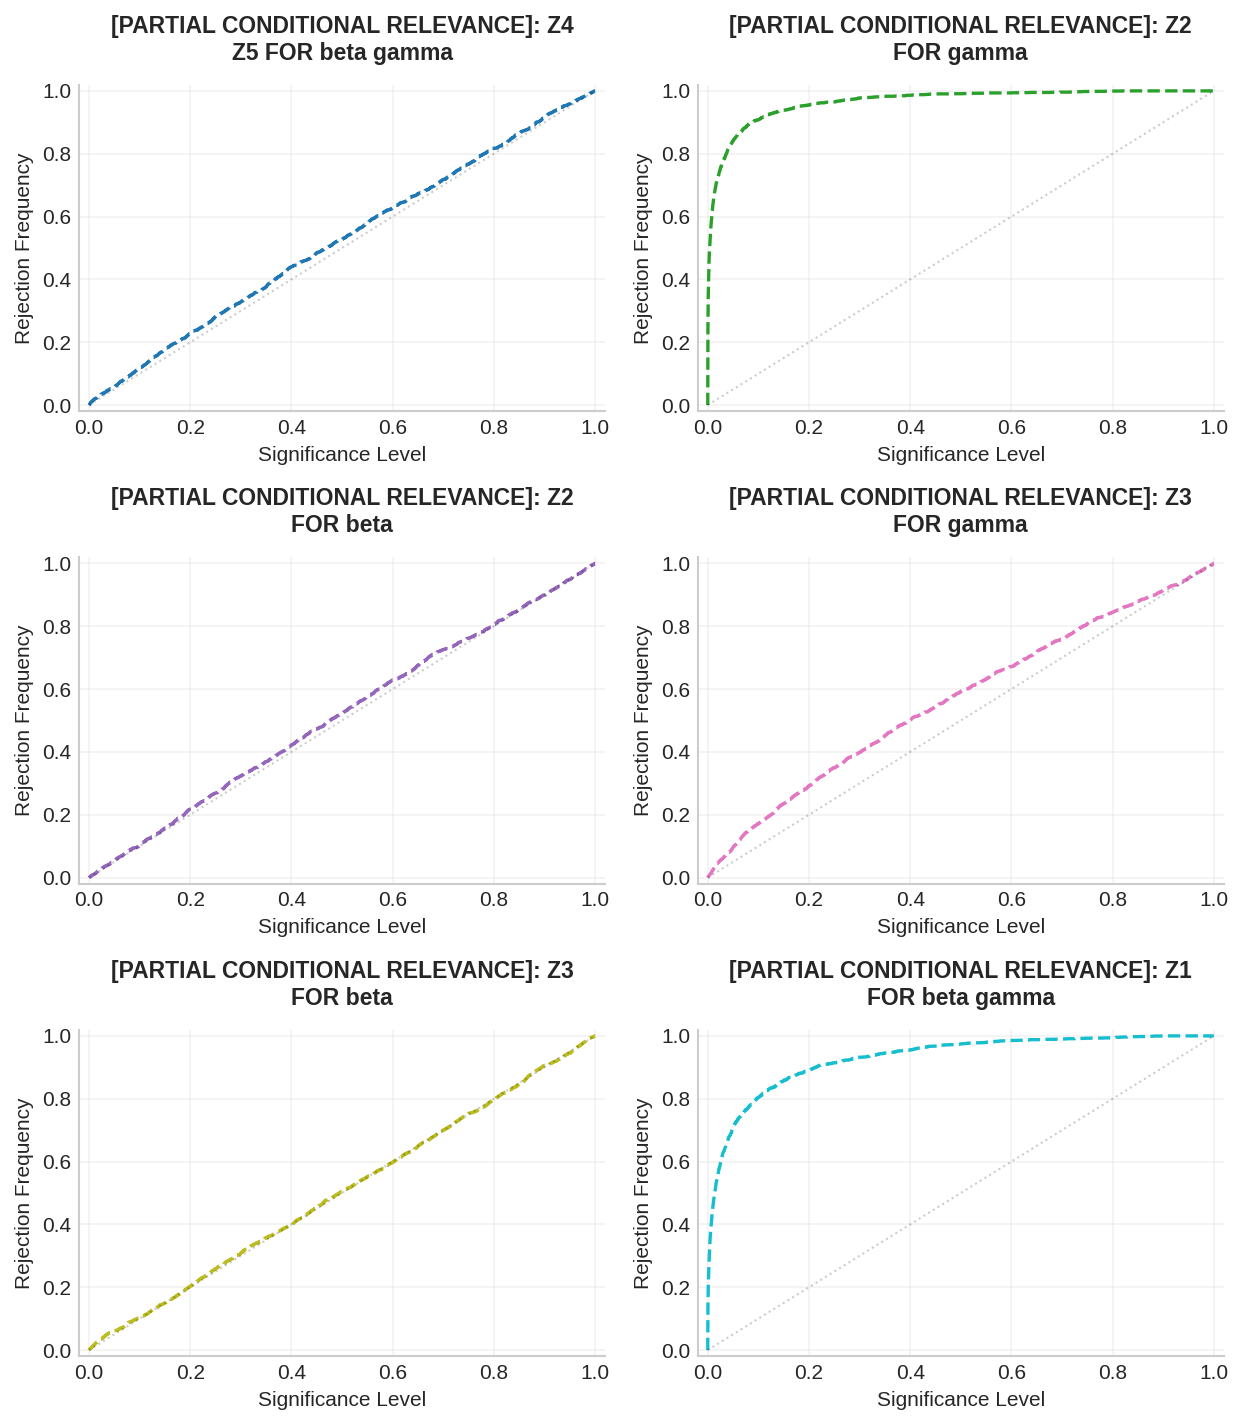
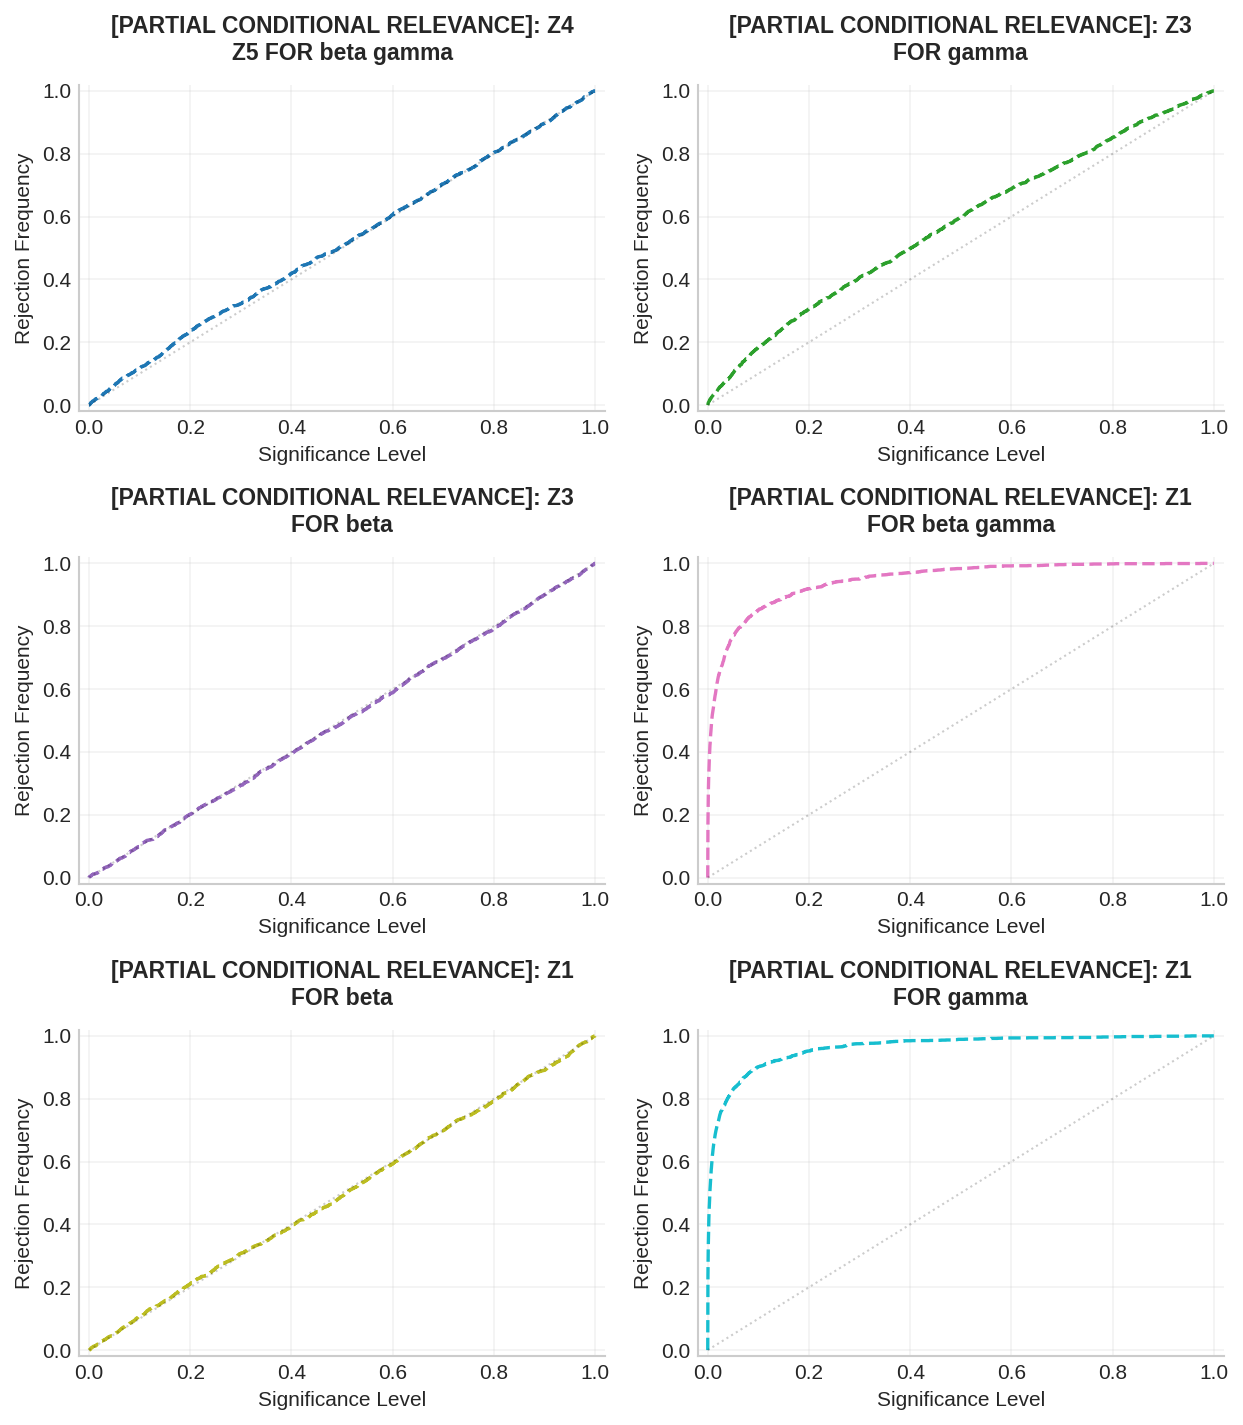
add improved simulation results

diff --git a/partial_monte_carlo.py b/partial_monte_carlo.py
@@ -87,6 +87,8 @@ def generate_Z_for_CR(
     grad_gamma = -beta * C_ratio ** (-gamma) * R * torch.log(C_ratio)
 
     Z1 = 2 * grad_beta + 0.5 * grad_gamma + eps1            # релевантен для beta и gamma
+
+    ####### Для conditional теста Z2 выкидывается!!! #############
     Z2 = 10 * grad_gamma + eps2                             # только gamma
     Z3 = 0.5 * grad_beta + eps3                             # только beta
     Z4 = eps4                                               # нерелевантен

diff --git a/tests_impl.py b/tests_impl.py
@@ -5,7 +5,7 @@ from scipy.optimize import minimize
 from scipy.stats import chi2
 from typing import Callable, Tuple, List, Dict, Any
 
-
+    
 def vec(A):
     return anp.reshape(A.T, (-1,))
 
